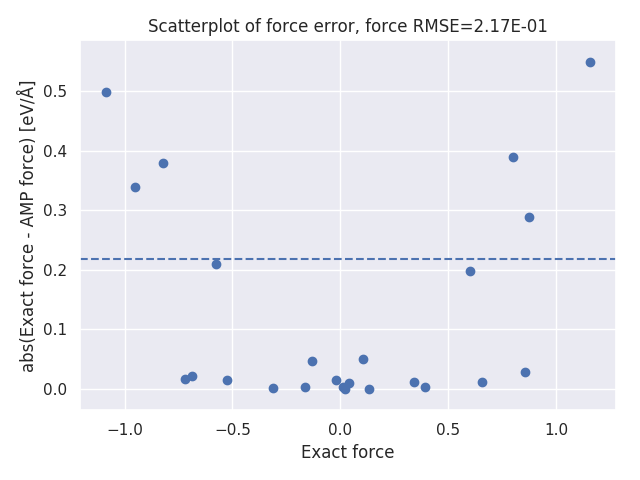
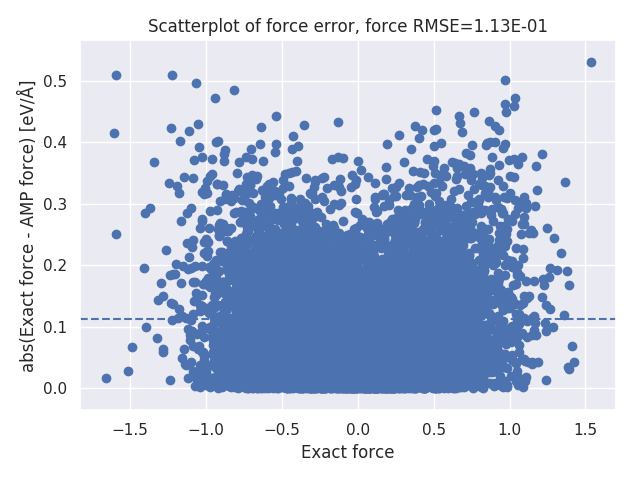
Plots

diff --git a/emt-copper/main.py b/emt-copper/main.py
@@ -1,0 +1,89 @@
+import os
+import sys
+import numpy as np
+from asap3 import EMT
+from amp import Amp
+from amp.descriptor.cutoffs import Cosine, Polynomial
+from amp.descriptor.gaussian import make_symmetry_functions
+from amp.model import LossFunction
+
+sys.path.insert(1, "../tools")
+
+from create_trajectory import TrajectoryBuilder
+from training import Trainer
+from plotting import Plotter
+
+
+if __name__ == "__main__":
+    system = "copper"
+    size = (2, 2, 2)
+    temp = 500
+
+    n_train = int(8e5)
+    n_train_force = int(5e4)
+    n_test = int(2e4)
+    save_interval = 100
+
+    max_steps = int(2e3)
+    convergence = {"energy_rmse": 1e-16, "force_rmse": None, "max_steps": max_steps}
+    force_coefficient = None
+    hidden_layers = (10, 10)
+    activation = "tanh"
+    cutoff = Cosine(4.0)
+
+    elements = ["Cu"]
+    nr = 4
+    nz = 1
+    gammas = [1.0, -1.0]
+    radial_etas = 10.0 * np.ones(nr)
+    centers = np.linspace(0.5, cutoff.Rc + 0.5, nr)
+    angular_etas = np.linspace(0.1, 1.0, nr)
+    zetas = [4 ** i for i in range(nz)]
+    G2 = make_symmetry_functions(
+        elements=elements, type="G2", etas=radial_etas, centers=centers
+    )
+    G4 = make_symmetry_functions(
+        elements=elements, type="G4", etas=angular_etas, zetas=zetas, gammas=[1.0, -1.0]
+    )
+    Gs = G2 + G4
+
+    trn = Trainer(
+        convergence=convergence,
+        force_coefficient=force_coefficient,
+        hidden_layers=hidden_layers,
+        activation=activation,
+        cutoff=cutoff,
+        Gs=Gs,
+    )
+
+    trjbd = TrajectoryBuilder()
+    calc = EMT()
+    train_atoms = trjbd.build_atoms(system, size, temp, calc)
+    calc = EMT()
+    test_atoms = trjbd.build_atoms(system, size, temp, calc)
+
+    train_traj = "training.traj"
+    train_force_traj = "training_force.traj"
+    test_traj = "test.traj"
+    steps, train_traj = trjbd.integrate_atoms(
+        train_atoms, train_traj, n_train, save_interval
+    )
+    steps, train_force_traj = trjbd.integrate_atoms(
+        train_atoms, train_force_traj, n_train_force, save_interval, steps=steps
+    )
+    steps, test_traj = trjbd.integrate_atoms(
+        test_atoms, test_traj, n_test, save_interval
+    )
+
+    label = "energy-trained"
+    calc = trn.create_calc(label=label, dblabel=label)
+    amp_name = trn.train_calc(calc, train_traj)
+
+    label = os.path.join("calcs", "force-trained")
+    calc = Amp.load(amp_name, label=label, dblabel=label)
+    convergence = {"energy_rmse": 1e-16, "force_rmse": 1e-16, "max_steps": max_steps}
+    loss_function = LossFunction(
+        convergence=convergence, energy_coefficient=1.0, force_coefficient=0.1
+    )
+    calc.model.lossfunction = loss_function
+    amp_name = trn.train_calc(calc, train_traj)

diff --git a/force-training/main.py b/force-training/main.py
@@ -1,3 +1,4 @@
+import os
 import sys
 import numpy as np
 from asap3 import EMT
@@ -14,17 +15,17 @@ from plotting import Plotter
 
 if __name__ == "__main__":
     system = "copper"
-    size = (1, 1, 1)
+    size = (3, 3, 3)
     temp = 500
 
-    n_train = int(8e2)
-    n_test = int(2e2)
+    n_train = int(2e4)
+    n_test = int(5e3)
     save_interval = 100
 
-    max_steps = int(5e2)
+    max_steps = int(2e3)
     activation = "tanh"
     hidden_layers = [10, 10]
-    cutoff = Polynomial(4.0)
+    cutoff = Polynomial(5.0)
 
     elements = ["Cu"]
     gammas = [1.0, -1.0]
@@ -64,6 +65,8 @@ if __name__ == "__main__":
     energy_forcetrain = "energy_forcetrain.png"
     force_forcetrain = "force_forcetrain.png"
 
+    calc_dir = "calcs"
+
     convergence = {"energy_rmse": 1e-16, "force_rmse": None, "max_steps": max_steps}
     force_coefficient = None
     trn_energy = Trainer(
@@ -76,8 +79,9 @@ if __name__ == "__main__":
     label = "energy"
     calc = trn_energy.create_calc(label=label, dblabel=label)
     energy_amp_name = trn_energy.train_calc(calc, train_traj)
+    test_label = os.path.join(calc_dir, "energy-test")
     energy_rmse, force_rmse, energy_exact, energy_diff, force_exact, force_diff = calculate_error(
-        energy_amp_name, images=test_traj
+        energy_amp_name, images=test_traj, label=test_label, dblabel=test_label
     )
     plter.plot_amp_error(
         energy_noforcetrain,
@@ -102,8 +106,9 @@ if __name__ == "__main__":
     label = "force"
     calc = trn_force.create_calc(label=label, dblabel=label)
     force_amp_name = trn_force.train_calc(calc, train_traj)
+    test_label = os.path.join(calc_dir, "force-test")
     energy_rmse, force_rmse, energy_exact, energy_diff, force_exact, force_diff = calculate_error(
-        force_amp_name, images=test_traj
+        force_amp_name, images=test_traj, label=test_label, dblabel=test_label
     )
     plter.plot_amp_error(
         energy_forcetrain,

diff --git a/symmetry-functions/plot.py b/symmetry-functions/plot.py
@@ -1,0 +1,48 @@
+import sys
+import numpy as np
+from amp.descriptor.cutoffs import Cosine, Polynomial
+from amp.descriptor.gaussian import make_symmetry_functions
+
+sys.path.insert(1, "../tools")
+
+from create_trajectory import TrajectoryBuilder
+from training import Trainer
+from plotting import Plotter
+
+
+if __name__ == "__main__":
+    cutoff = Polynomial(5.0)
+    elements = ["Cu"]
+    nr = 4
+    nz = 1
+    gammas = [1.0, -1.0]
+    for shift in ["uncentered", "centered"]:
+        if shift == "uncentered":
+            radial_etas = np.logspace(np.log10(0.5), np.log10(80.0), nr)
+            centers = np.zeros(nr)
+        elif shift == "centered":
+            radial_etas = 10.0 * np.ones(nr)
+            centers = np.linspace(0.5, cutoff.Rc + 0.5, nr)
+        angular_etas = np.linspace(0.1, 1.0, nr)
+        zetas = [4 ** i for i in range(nz)]
+
+        G2 = make_symmetry_functions(
+            elements=elements, type="G2", etas=radial_etas, centers=centers
+        )
+
+        G5 = make_symmetry_functions(
+            elements=elements,
+            type="G5",
+            etas=angular_etas,
+            zetas=zetas,
+            gammas=[1.0, -1.0],
+        )
+        Gs = G2 + G5
+
+        plter = Plotter()
+        plter.plot_symmetry_functions(
+            "radial_{}.png".format(shift),
+            "angular_{}.png".format(shift),
+            Gs,
+            cutoff=cutoff,
+        )

diff --git a/tools/plotting.py b/tools/plotting.py
@@ -178,9 +178,12 @@ class Plotter:
 
         plt.figure(1)
         plt.legend()
+        plt.savefig(rad_plot_file)
+        plt.clf()
         plt.figure(2)
         plt.legend()
-        plt.show()
+        plt.savefig(ang_plot_file)
+        plt.clf()
 
     def cosine(self, rij, r_cut):
         term = 0.5 * (1 + np.cos(np.pi * rij / r_cut))
@@ -191,7 +194,7 @@ class Plotter:
         term1 = 1 + gamma * (rij / r_cut) ** (gamma + 1)
         term2 = (gamma + 1) * (rij / r_cut) ** gamma
 
-        return term1 + term2
+        return term1 - term2
 
     def G2(self, eta, center, rij, cutoff, r_cut):
         term1 = np.exp(-eta * (rij - center) ** 2 / r_cut ** 2)
